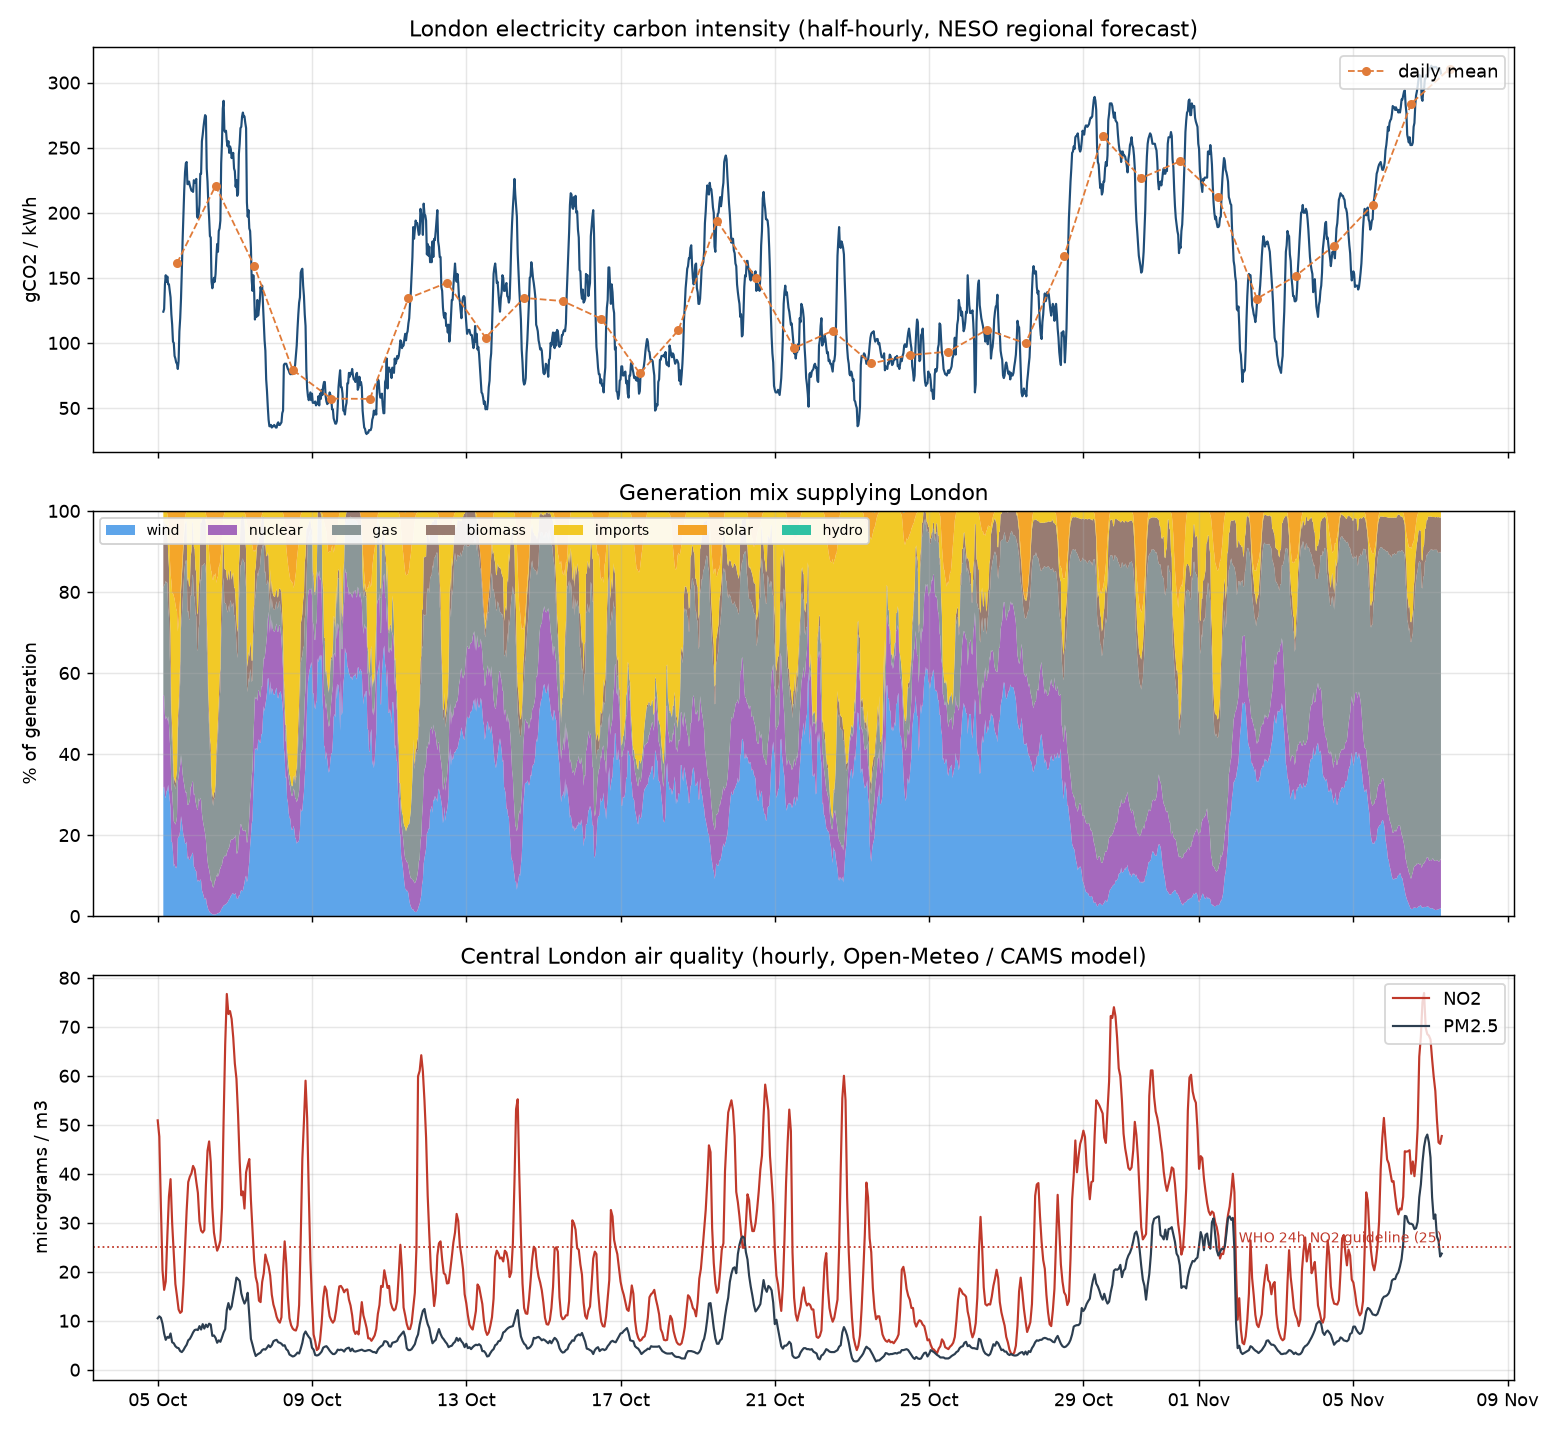
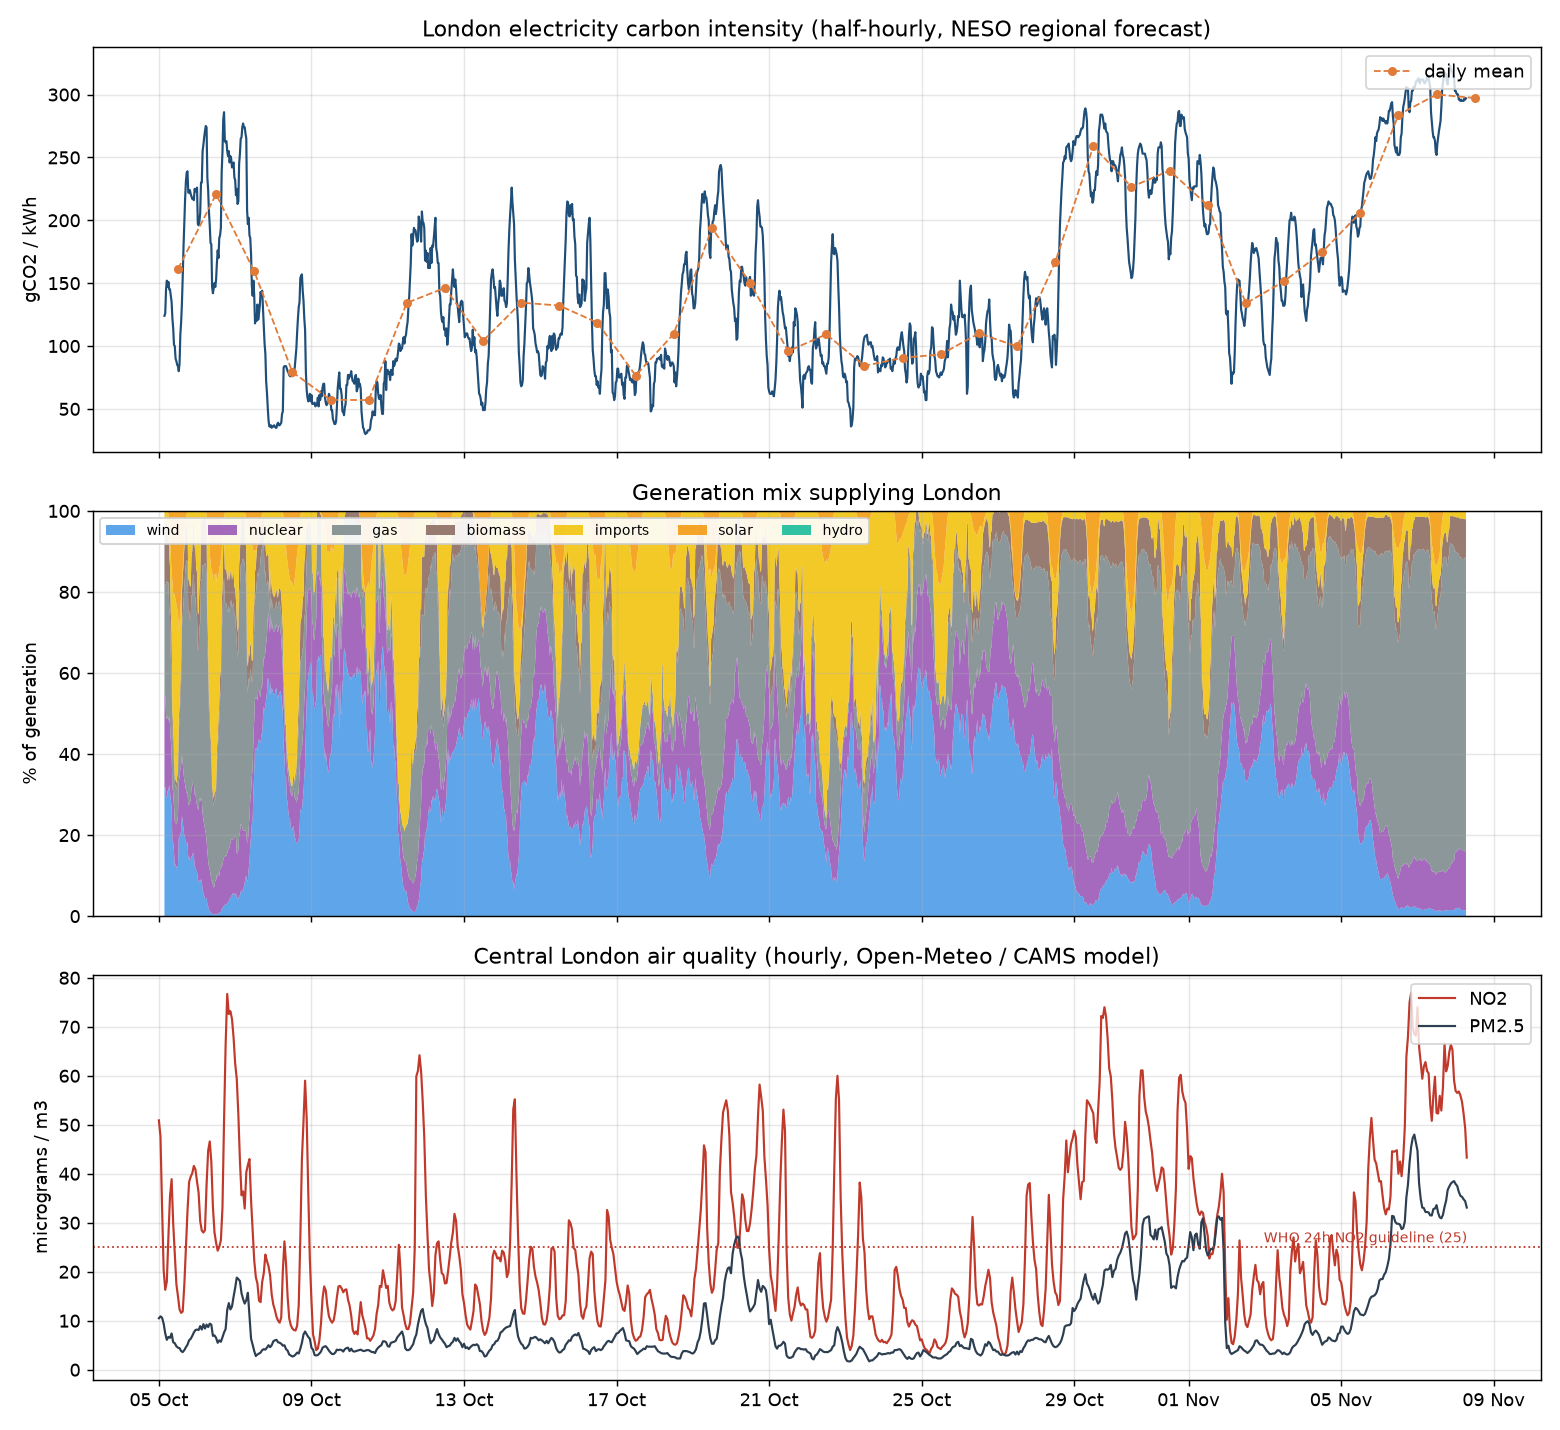
Daily data update 2026-11-08

diff --git a/README.md b/README.md
@@ -11,18 +11,18 @@
 The section below is rewritten by the pipeline on every run. Times are UTC.
 
 <!-- LATEST:START -->
-_Last updated by the pipeline: **2026-11-07 07:05 UTC** · 24 runs · 1,591 half-hours of carbon data since 05 Oct 2026, 800 hours of air quality, 24 TfL snapshots_
+_Last updated by the pipeline: **2026-11-08 07:08 UTC** · 25 runs · 1,639 half-hours of carbon data since 05 Oct 2026, 824 hours of air quality, 25 TfL snapshots_
 
 | Measure | Latest | Last 7 days |
 |---|---|---|
-| Grid carbon intensity, London (gCO2/kWh) | **307** (very high, 07 Nov 06:30 UTC) | mean 203.2 |
-| Cleanest / dirtiest half-hour | | 70 (Mon 02 Nov 03:00) / 313 (Sat 07 Nov 00:30) |
+| Grid carbon intensity, London (gCO2/kWh) | **297** (very high, 08 Nov 06:30 UTC) | mean 211.6 |
+| Cleanest / dirtiest half-hour | | 70 (Mon 02 Nov 03:00) / 323 (Sat 07 Nov 20:30) |
 | Lowest-carbon / highest-carbon hour of day (UTC, 7-day average) | | 11:00 / 16:00 |
-| Wind / gas share of generation | | 22.6% / 47.2% |
-| NO2, central London (µg/m3) | 47.7 (07 Nov 07:00 UTC) | mean 28.9 |
-| PM2.5, central London (µg/m3) | 23.7 | mean 15.5 |
-| TfL lines with Good Service | 15 of 19 (07 Nov 07:05 UTC) | |
-| TfL disruptions at last snapshot | Lioness: Reduced Service, Mildmay: Part Closure, Suffragette: Part Closure, Waterloo & City: Planned Closure | |
+| Wind / gas share of generation | | 22.1% / 50.1% |
+| NO2, central London (µg/m3) | 43.3 (08 Nov 07:00 UTC) | mean 31.6 |
+| PM2.5, central London (µg/m3) | 33.1 | mean 17.4 |
+| TfL lines with Good Service | 12 of 19 (08 Nov 07:08 UTC) | |
+| TfL disruptions at last snapshot | Bakerloo: Part Suspended, Elizabeth line: Severe Delays, Lioness: Part Closure, Mildmay: Part Closure, Suffragette: Part Closure, Waterloo & City: Planned Closure, Windrush: Part Closure | |
 
 <p align="center"><img src="docs/latest.png" width="90%"></p>
 <!-- LATEST:END -->
